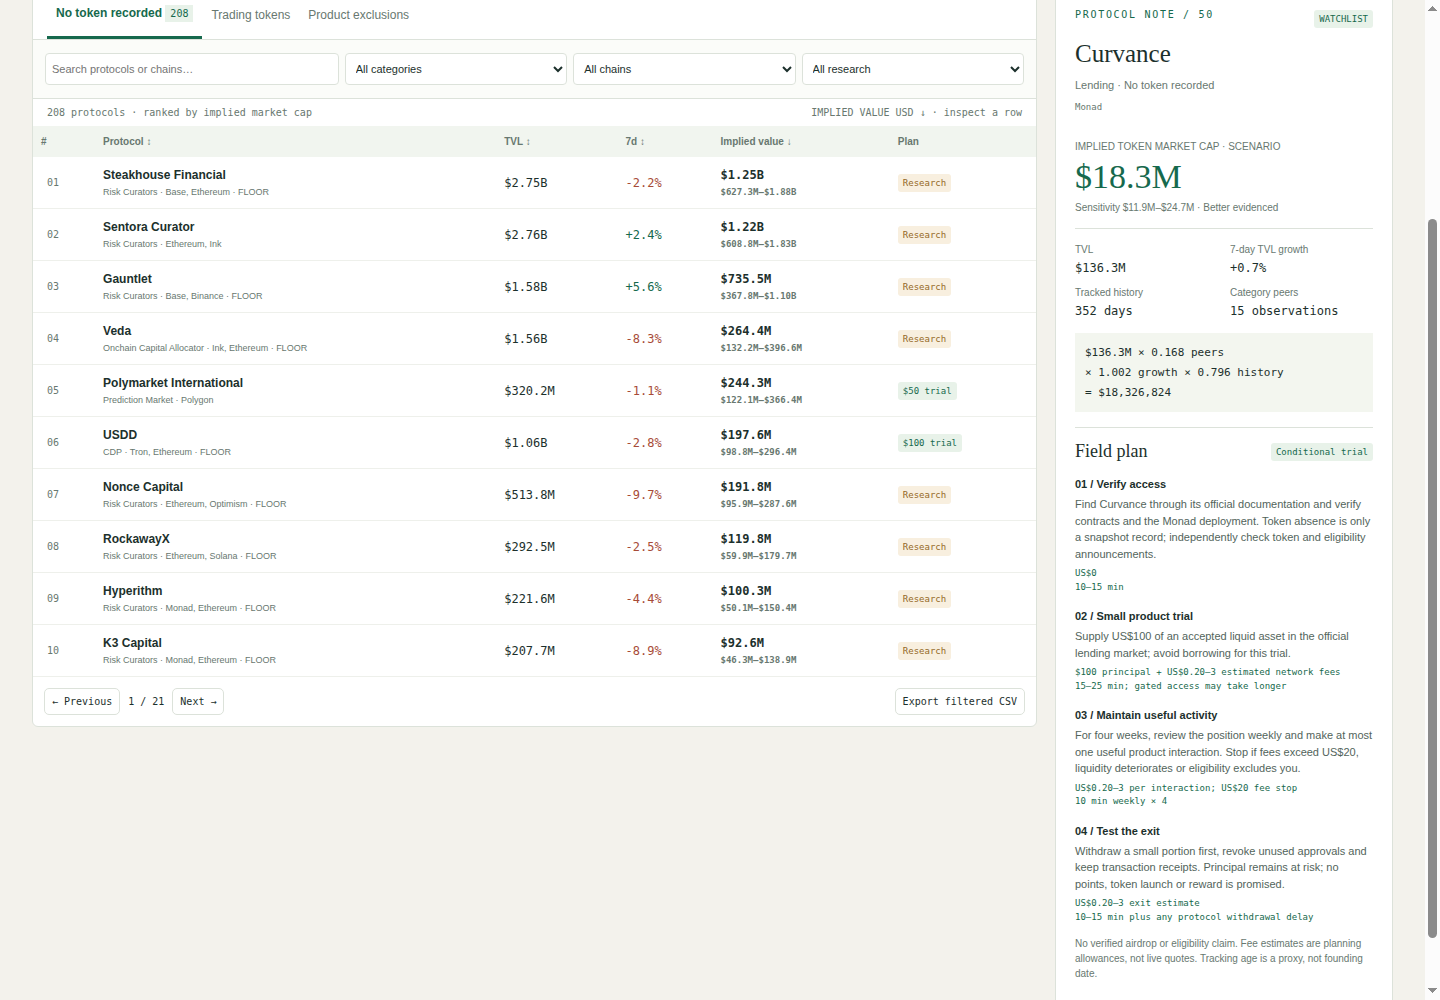
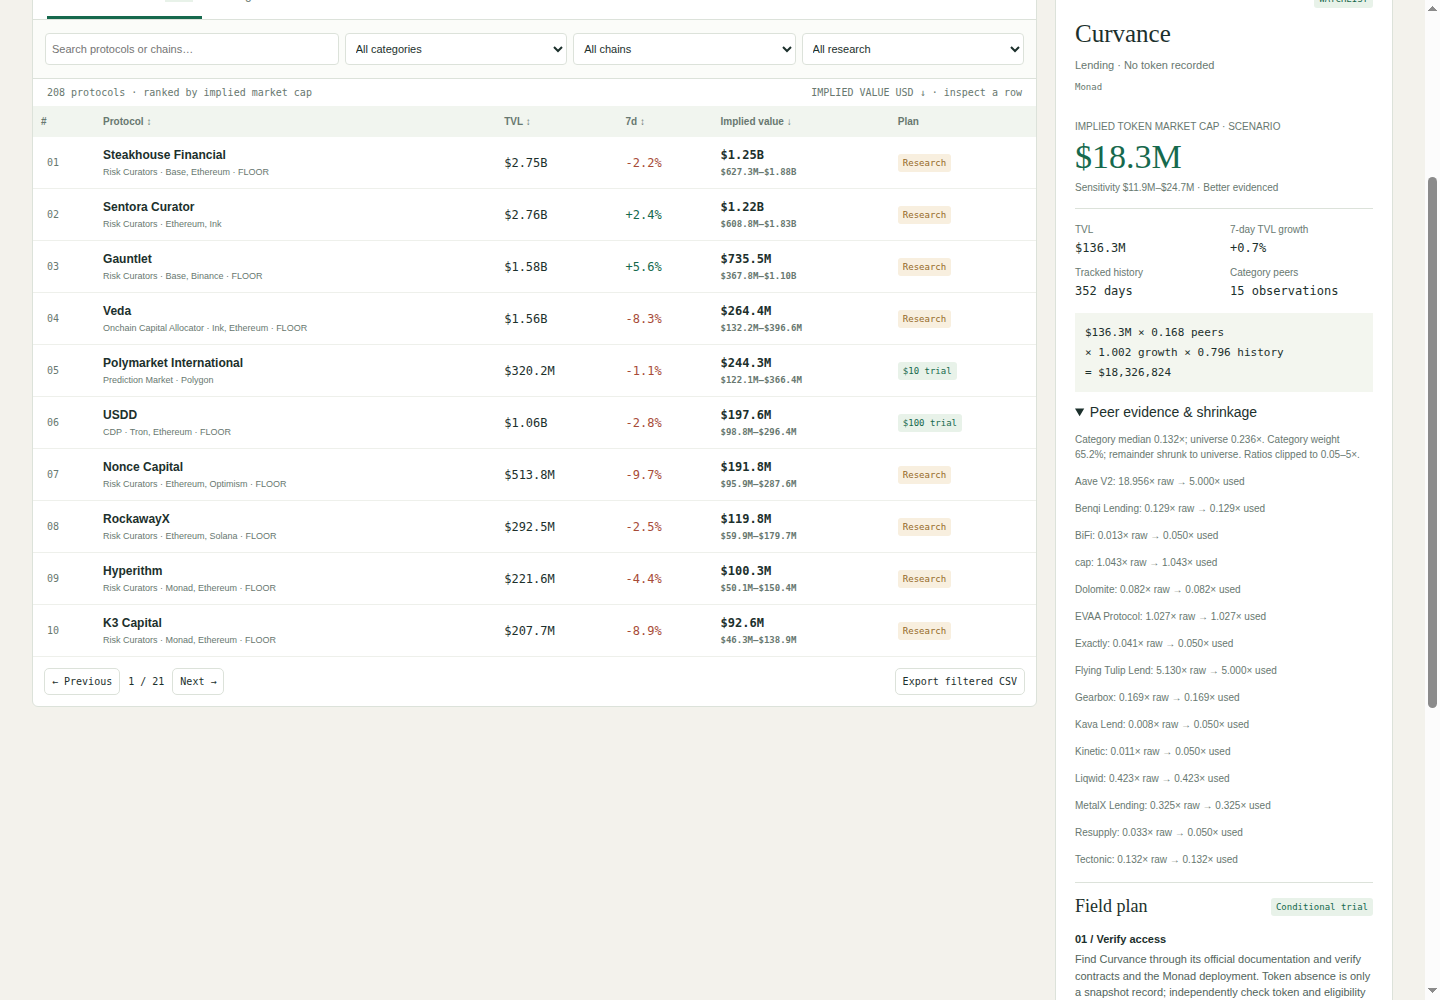
Fix tab state and budgets; expose peer calibration evidence

diff --git a/dashboard/app.js b/dashboard/app.js
@@ -1,7 +1,7 @@
 (()=>{'use strict';
 const data=RadarModel.build(SNAPSHOT),$=id=>document.getElementById(id);
 const esc=s=>String(s??'').replace(/[&<>"']/g,c=>({'&':'&amp;','<':'&lt;','>':'&gt;','"':'&quot;',"'":'&#39;'}[c]));
-const short=n=>n>=1e9?'$'+(n/1e9).toFixed(2)+'B':n>=1e6?'$'+(n/1e6).toFixed(1)+'M':RadarModel.money(n);
+const short=n=>n===null||n===undefined?'Not reported':n>=1e9?'$'+(n/1e9).toFixed(2)+'B':n>=1e6?'$'+(n/1e6).toFixed(1)+'M':RadarModel.money(n);
 const pct=n=>n===null?'—':(n>=0?'+':'')+n.toFixed(1)+'%';
 let tab='early',sort='implied_value_usd',dir=-1,page=0,selected=data.rows[0]?.slug,filtered=[];
 $('stamp').textContent='SNAPSHOT '+data.as_of+' / OFFLINE';
@@ -9,17 +9,19 @@ $('earlyCount').textContent=data.rows.length;
 $('metrics').innerHTML=[['Research universe',data.universe+' protocols'],['Watchlist coverage',data.watch_count+' / '+data.watch_count],['No token recorded',data.rows.length+' ranked'],['Calibration set',data.peer_count+' traded peers']].map(([a,b])=>'<div><b>'+b+'</b><small>'+a.toUpperCase()+'</small></div>').join('');
 $('coverage').textContent='All '+data.watch_count+' watchlist protocols included · '+data.rows.filter(r=>!r.watchlist).length+' additional candidates';
 $('modelSummary').textContent='Universe median MCap/TVL: '+data.global_multiple.toFixed(3)+'× • '+data.peer_count+' eligible comparables • as of '+data.as_of;
-for(const cat of [...new Set(data.rows.map(r=>r.category||'Other'))].sort())$('category').add(new Option(cat,cat));
+for(const cat of [...new Set(SNAPSHOT.protocols.map(r=>r.category||'Other'))].sort())$('category').add(new Option(cat,cat));
 for(const chain of [...new Set(SNAPSHOT.protocols.flatMap(r=>r.chains))].sort())$('chain').add(new Option(chain,chain));
 function render(){
  const q=$('search').value.toLowerCase(),cat=$('category').value,ch=$('chain').value,scope=$('scope').value;
  const pool=tab==='early'?data.rows:tab==='live'?data.live:data.excluded;
  filtered=pool.filter(r=>(!q||(r.name+' '+r.slug+' '+r.chains.join(' ')).toLowerCase().includes(q))&&(!cat||(r.category||'Other')===cat)&&(!ch||r.chains.includes(ch))&&(!scope||scope==='watch'&&r.watchlist||scope==='below'&&r.tvl_usd<5e7||scope==='trial'&&r.action_mode==='Conditional trial'));
- filtered.sort((a,b)=>typeof a[sort]==='string'?dir*a[sort].localeCompare(b[sort]):dir*((a[sort]??-Infinity)-(b[sort]??-Infinity))||a.slug.localeCompare(b.slug));
+ if(tab!=='early'&&sort==='implied_value_usd')sort='mcap_usd';
+ filtered.sort((a,b)=>typeof a[sort]==='string'?dir*a[sort].localeCompare(b[sort]):dir*((a[sort]??-1)-(b[sort]??-1))||a.slug.localeCompare(b.slug));
  page=Math.min(page,Math.max(0,Math.ceil(filtered.length/10)-1));
  $('resultCount').textContent=filtered.length+' protocols · '+(tab==='early'?'ranked by implied market cap':tab==='live'?'reported traded tokens':'product / wrapper exclusions');
  $('sortLabel').textContent=sort.replaceAll('_',' ').toUpperCase()+(dir===-1?' ↓':' ↑')+' · inspect a row';
- $('rows').innerHTML=filtered.slice(page*10,page*10+10).map((r,i)=>'<tr tabindex="0" data-slug="'+esc(r.slug)+'" class="'+(selected===r.slug?'selected':'')+'"><td>'+String(r.rank||page*10+i+1).padStart(2,'0')+'</td><td><strong>'+esc(r.name)+'</strong><small>'+esc(r.category||'Other')+' · '+esc(r.chains.slice(0,2).join(', '))+(r.watchlist?' · FLOOR':'')+'</small></td><td class="num">'+short(r.tvl_usd)+'</td><td class="num '+(r.change_7d<0?'negative':'green')+'">'+pct(r.change_7d)+'</td><td class="num value">'+short(tab==='early'?r.implied_value_usd:(r.mcap_usd||0))+'<small>'+ (tab==='early'?short(r.low)+'–'+short(r.high):'reported market cap')+'</small></td><td><span class="badge '+(r.action_mode==='Research only'?'research':'')+'">'+(tab==='early'?(r.capital?'$'+r.capital+' trial':'Research'):(tab==='live'?'Trading':'Excluded'))+'</span></td></tr>').join('');
+ $('rows').innerHTML=filtered.slice(page*10,page*10+10).map((r,i)=>'<tr tabindex="0" data-slug="'+esc(r.slug)+'" class="'+(selected===r.slug?'selected':'')+'"><td>'+String(r.rank||page*10+i+1).padStart(2,'0')+'</td><td><strong>'+esc(r.name)+'</strong><small>'+esc(r.category||'Other')+' · '+esc(r.chains.slice(0,2).join(', '))+(r.watchlist?' · FLOOR':'')+'</small></td><td class="num">'+short(r.tvl_usd)+'</td><td class="num '+(r.change_7d<0?'negative':'green')+'">'+pct(r.change_7d)+'</td><td class="num value">'+short(tab==='early'?r.implied_value_usd:r.mcap_usd)+'<small>'+ (tab==='early'?short(r.low)+'–'+short(r.high):'reported market cap')+'</small></td><td><span class="badge '+(r.action_mode==='Research only'?'research':'')+'">'+(tab==='early'?(r.capital?'$'+r.capital+' trial':'Research'):(tab==='live'?'Trading':'Excluded'))+'</span></td></tr>').join('');
+ if(filtered.length&&!filtered.some(r=>r.slug===selected)){selected=filtered[0].slug;detail();}
  $('empty').hidden=filtered.length>0;
  $('page').textContent=(page+1)+' / '+Math.max(1,Math.ceil(filtered.length/10));$('prev').disabled=page===0;$('next').disabled=(page+1)*10>=filtered.length;
  document.querySelectorAll('#rows tr').forEach(el=>{el.onclick=()=>{selected=el.dataset.slug;detail();render();};el.onkeydown=e=>{if(e.key==='Enter')el.click();};});
@@ -27,8 +29,8 @@ function render(){
 function detail(){
  const r=data.rows.find(r=>r.slug===selected)||data.live.find(r=>r.slug===selected)||data.excluded.find(r=>r.slug===selected);
  if(!r)return;
- if(!r.plan){$('detail').innerHTML='<p class="eyebrow">'+(RadarModel.hasToken(r)?'TRADING TOKEN':'PRODUCT EXCLUSION')+'</p><h2>'+esc(r.name)+'</h2><p class="category">'+esc(r.category)+'</p><div class="estimate"><small>REPORTED MARKET CAP</small><b>'+short(r.mcap_usd||0)+'</b></div><p class="note">'+(RadarModel.hasToken(r)?'This record already identifies a traded token. It is separated from prospective-token ranking and used for peer calibration where eligible.':'This record appears to be a bridge, staked/wrapped product or exchange. It is excluded unless explicitly required by the sealed watchlist.')+'</p><div class="facts"><div><span>TVL</span><b>'+short(r.tvl_usd)+'</b></div><div><span>7-day TVL growth</span><b>'+pct(r.change_7d)+'</b></div></div>';return;}
- $('detail').innerHTML='<div class="detailhead"><p class="eyebrow">PROTOCOL NOTE / '+String(r.rank).padStart(2,'0')+'</p><span class="badge">'+(r.watchlist?'WATCHLIST':'EARLY RADAR')+'</span></div><h2>'+esc(r.name)+'</h2><p class="category">'+esc(r.category)+' · '+esc(r.token_status)+'</p><div class="chips">'+esc(r.chains.join(' · '))+'</div><div class="estimate"><small>IMPLIED TOKEN MARKET CAP · SCENARIO</small><b>'+short(r.implied_value_usd)+'</b><small>Sensitivity '+short(r.low)+'–'+short(r.high)+' · '+r.confidence+'</small></div><div class="facts"><div><span>TVL</span><b>'+short(r.tvl_usd)+'</b></div><div><span>7-day TVL growth</span><b>'+pct(r.change_7d)+'</b></div><div><span>Tracked history</span><b>'+(r.age_days===null?'Unknown → 365d':r.age_days+' days')+'</b></div><div><span>Category peers</span><b>'+r.peer_count+' observations</b></div></div><div class="formula">'+short(r.tvl_usd)+' × '+r.multiple.toFixed(3)+' peers<br>× '+r.growthFactor.toFixed(3)+' growth × '+r.ageFactor.toFixed(3)+' history<br>= '+RadarModel.money(r.implied_value_usd)+'</div><div class="planheading"><h3>Field plan</h3><span class="badge '+(r.capital?'':'research')+'">'+esc(r.action_mode)+'</span></div>'+r.plan.map((s,i)=>'<div class="step"><b>0'+(i+1)+' / '+esc(s.title)+'</b><p>'+esc(s.text)+'</p><div class="cost">'+esc(s.cost)+'<br>'+esc(s.time)+'</div></div>').join('')+'<p class="note">No verified airdrop or eligibility claim. Fee estimates are planning allowances, not live quotes. Tracking age is a proxy, not founding date.</p>';
+ if(!r.plan){$('detail').innerHTML='<p class="eyebrow">'+(RadarModel.hasToken(r)?'TRADING TOKEN':'PRODUCT EXCLUSION')+'</p><h2>'+esc(r.name)+'</h2><p class="category">'+esc(r.category)+'</p><div class="estimate"><small>REPORTED MARKET CAP</small><b>'+short(r.mcap_usd)+'</b></div><p class="note">'+(RadarModel.hasToken(r)?'This record already identifies a traded token. It is separated from prospective-token ranking and used for peer calibration where eligible.':'This record appears to be a bridge, staked/wrapped product or exchange. It is excluded unless explicitly required by the sealed watchlist.')+'</p><div class="facts"><div><span>TVL</span><b>'+short(r.tvl_usd)+'</b></div><div><span>7-day TVL growth</span><b>'+pct(r.change_7d)+'</b></div></div>';return;}
+ $('detail').innerHTML='<div class="detailhead"><p class="eyebrow">PROTOCOL NOTE / '+String(r.rank).padStart(2,'0')+'</p><span class="badge">'+(r.watchlist?'WATCHLIST':'EARLY RADAR')+'</span></div><h2>'+esc(r.name)+'</h2><p class="category">'+esc(r.category)+' · '+esc(r.token_status)+'</p><div class="chips">'+esc(r.chains.join(' · '))+'</div><div class="estimate"><small>IMPLIED TOKEN MARKET CAP · SCENARIO</small><b>'+short(r.implied_value_usd)+'</b><small>Sensitivity '+short(r.low)+'–'+short(r.high)+' · '+r.confidence+'</small></div><div class="facts"><div><span>TVL</span><b>'+short(r.tvl_usd)+'</b></div><div><span>7-day TVL growth</span><b>'+pct(r.change_7d)+'</b></div><div><span>Tracked history</span><b>'+(r.age_days===null?'Unknown → 365d':r.age_days+' days')+'</b></div><div><span>Category peers</span><b>'+r.peer_count+' observations</b></div></div><div class="formula">'+short(r.tvl_usd)+' × '+r.multiple.toFixed(3)+' peers<br>× '+r.growthFactor.toFixed(3)+' growth × '+r.ageFactor.toFixed(3)+' history<br>= '+RadarModel.money(r.implied_value_usd)+'</div><details class="evidence"><summary>Peer evidence & shrinkage</summary><p class="note">Category median '+r.category_median.toFixed(3)+'×; universe '+r.global_median.toFixed(3)+'×. Category weight '+(r.shrinkage_weight*100).toFixed(1)+'%; remainder shrunk to universe. Ratios clipped to 0.05–5×.</p>'+r.comparables.map(q=>'<p class="note">'+esc(q.name)+': '+q.ratio.toFixed(3)+'× raw → '+q.clipped.toFixed(3)+'× used</p>').join('')+(r.comparables.length?'':'<p class="note">No category peers; universe median used.</p>')+'</details><div class="planheading"><h3>Field plan</h3><span class="badge '+(r.capital?'':'research')+'">'+esc(r.action_mode)+'</span></div>'+r.plan.map((s,i)=>'<div class="step"><b>0'+(i+1)+' / '+esc(s.title)+'</b><p>'+esc(s.text)+'</p><div class="cost">'+esc(s.cost)+'<br>'+esc(s.time)+'</div></div>').join('')+'<p class="note">No verified airdrop or eligibility claim. Fee estimates are planning allowances, not live quotes. Tracking age is a proxy, not founding date.</p>';
 }
 for(const id of ['search','category','chain','scope'])$(id).addEventListener(id==='search'?'input':'change',()=>{page=0;render();});
 document.querySelectorAll('[data-tab]').forEach(b=>b.onclick=()=>{tab=b.dataset.tab;page=0;sort=tab==='early'?'implied_value_usd':'tvl_usd';document.querySelectorAll('[data-tab]').forEach(x=>x.classList.toggle('active',x===b));render();});

diff --git a/dashboard/model.js b/dashboard/model.js
@@ -2,7 +2,7 @@
 (function(root){
 'use strict';
 const clamp=(x,a,b)=>Math.max(a,Math.min(b,x));
-const median=a=>{a=[...a].sort((x,y)=>x-y);return a.length?a[Math.floor(a.length/2)]:null;};
+const median=a=>{a=[...a].sort((x,y)=>x-y);const n=a.length;return n?(n%2?a[(n-1)/2]:(a[n/2-1]+a[n/2])/2):null;};
 const money=n=>'$'+Math.round(n).toLocaleString('en-US');
 // All plans are conditional on verified access. The snapshot cannot establish
 // eligibility, live fees, contract safety, revenue or future issuance.
@@ -30,7 +30,7 @@ function build(snapshot){
   const gas=/Ethereum|Bitcoin/.test(chain)?'US$5–25':'US$0.20–3';
   const catname=p.category||'Other';
   const passive=/Risk Curators|RWA|CEX|Onchain Capital Allocator|Insurance/.test(catname);
-  const budget=passive?0:/Lending|CDP/.test(catname)?100:50;
+  const budget=passive?0:/Derivatives|Options|Prediction/.test(catname)?10:/Lending|CDP/.test(catname)?100:/Dexs|Liquidity Manager/.test(catname)?60:50;
   const action=/Lending/.test(catname)?'Supply US$100 of an accepted liquid asset in the official lending market; avoid borrowing for this trial.':/Dexs|Liquidity Manager/.test(catname)?'Make one US$10 swap, then test US$50 of stable-pair liquidity only if a suitable pool exists.':/CDP/.test(catname)?'Open a US$100 collateral position only if supported, targeting at most 20% loan-to-value; otherwise skip.':/Derivatives|Options|Prediction/.test(catname)?'Read the settlement rules and use a demo first; if proceeding, cap any live position at US$10 and use no leverage.':/Restaking/.test(catname)?'Review slashing and withdrawal terms; test no more than US$50 only if deposits and exits are verifiable.':passive?'Check whether a public permissionless vault, pool or application is actually available. If gated, stay in research mode and commit US$0.':'Test a US$50 deposit only if a public product and withdrawal route are available; otherwise remain in research mode.';
   const plan=[
    {title:'Verify access',text:'Find '+p.name+' through its official documentation and verify contracts and the '+chain+' deployment. Token absence is only a snapshot record; independently check token and eligibility announcements.',cost:'US$0',time:'10–15 min',capital:0},
@@ -38,7 +38,7 @@ function build(snapshot){
    {title:'Maintain useful activity',text:passive?'Recheck public-access and eligibility documentation once weekly for four weeks. Do not pay for points or impersonate an eligible investor.':'For four weeks, review the position weekly and make at most one useful product interaction. Stop if fees exceed US$20, liquidity deteriorates or eligibility excludes you.',cost:passive?'US$0':gas+' per interaction; US$20 fee stop',time:'10 min weekly × 4',capital:0},
    {title:'Test the exit',text:passive?'Before any future deposit, confirm access restrictions, withdrawal gates and who bears counterparty losses. Archive the terms; skip any unavailable exit.':'Withdraw a small portion first, revoke unused approvals and keep transaction receipts. Principal remains at risk; no points, token launch or reward is promised.',cost:passive?'US$0':gas+' exit estimate',time:'10–15 min plus any protocol withdrawal delay',capital:0}
   ];
-  return {...p,rank:0,age_days:age,watchlist:watch.has(p.slug),token_status:'No token recorded',implied_value_usd:implied,low,high,multiple,peer_count:n,growthFactor,ageFactor,confidence:n>=8&&age!==null&&p.change_7d!==null?'Better evidenced':'Sparse evidence',action_mode:passive?'Research only':'Conditional trial',capital:budget,plan,farm_steps:plan.map(s=>s.title+': '+s.text+' Cost: '+s.cost+'. Time: '+s.time+'.')};
+  return {...p,rank:0,age_days:age,watchlist:watch.has(p.slug),token_status:'No token recorded',implied_value_usd:implied,low,high,multiple,category_median:cat,global_median:global,shrinkage_weight:weight,comparables:peers.filter(q=>(q.category||'Other')===(p.category||'Other')).map(q=>({name:q.name,ratio:q.mcap_usd/q.tvl_usd,clipped:clamp(q.mcap_usd/q.tvl_usd,.05,5)})),peer_count:n,growthFactor,ageFactor,confidence:n>=8&&age!==null&&p.change_7d!==null?'Better evidenced':'Sparse evidence',action_mode:passive?'Research only':'Conditional trial',capital:budget,plan,farm_steps:plan.map(s=>s.title+': '+s.text+' Cost: '+s.cost+'. Time: '+s.time+'.')};
  }).sort((a,b)=>b.implied_value_usd-a.implied_value_usd||a.slug.localeCompare(b.slug));
  rows.forEach((r,i)=>r.rank=i+1);
  return {rows,live:snapshot.protocols.filter(hasToken).sort((a,b)=>(b.mcap_usd||0)-(a.mcap_usd||0)),excluded:snapshot.protocols.filter(p=>!hasToken(p)&&product(p)&&!watch.has(p.slug)),as_of:snapshot.as_of,source:snapshot.source,watch_count:watch.size,global_multiple:global,peer_count:peers.length,universe:snapshot.protocols.length};
